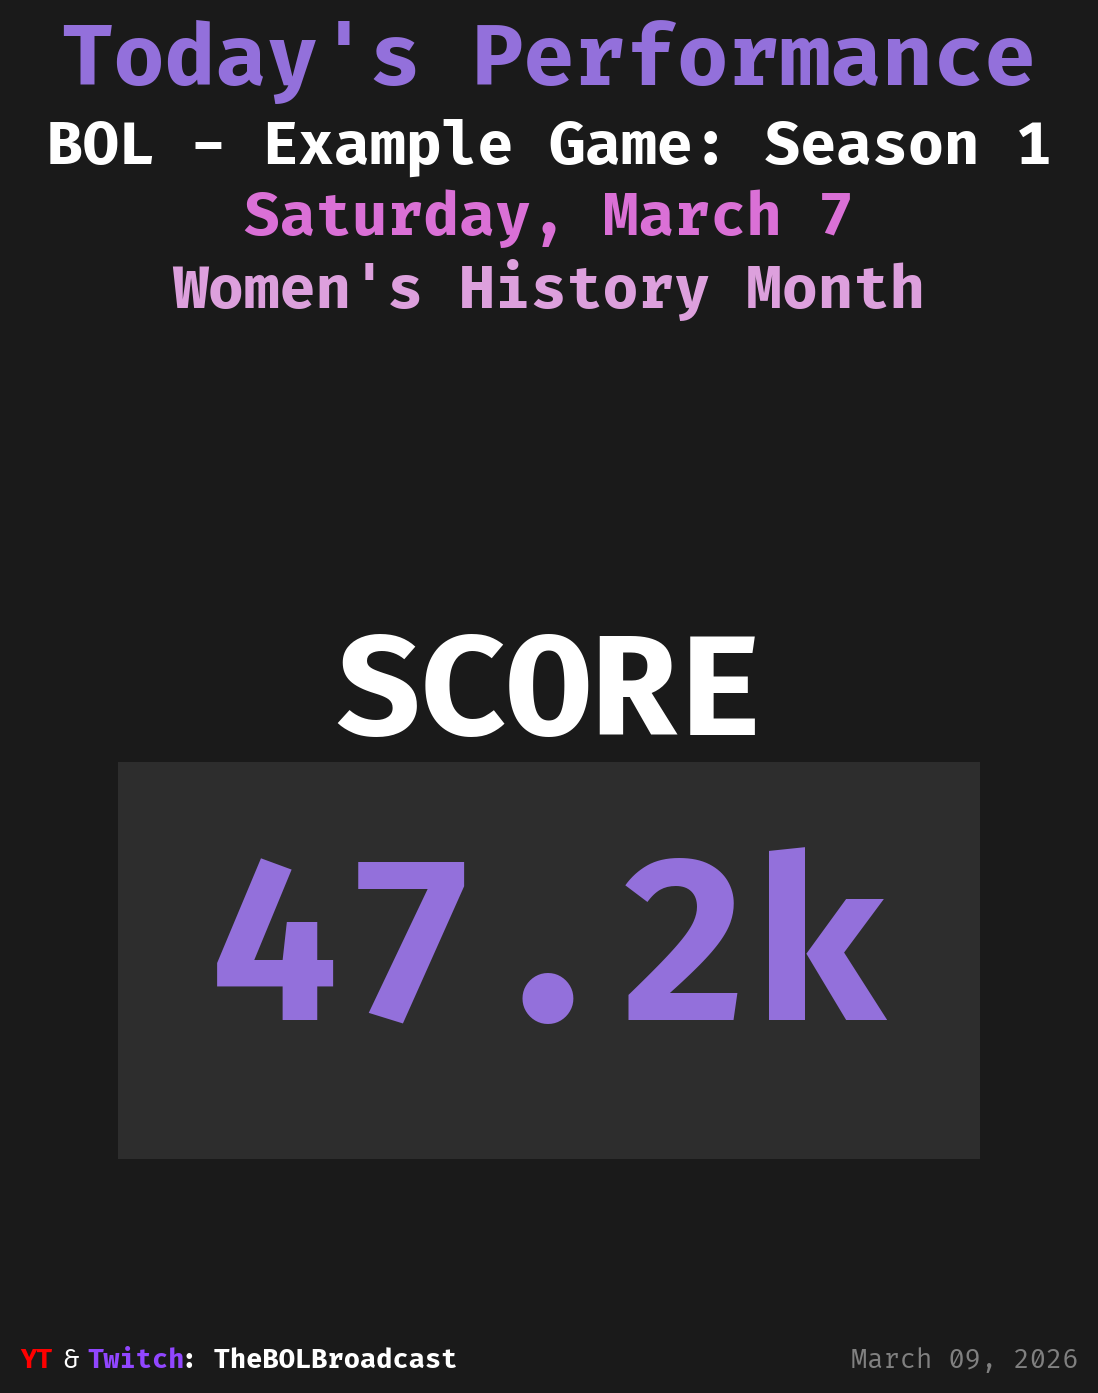
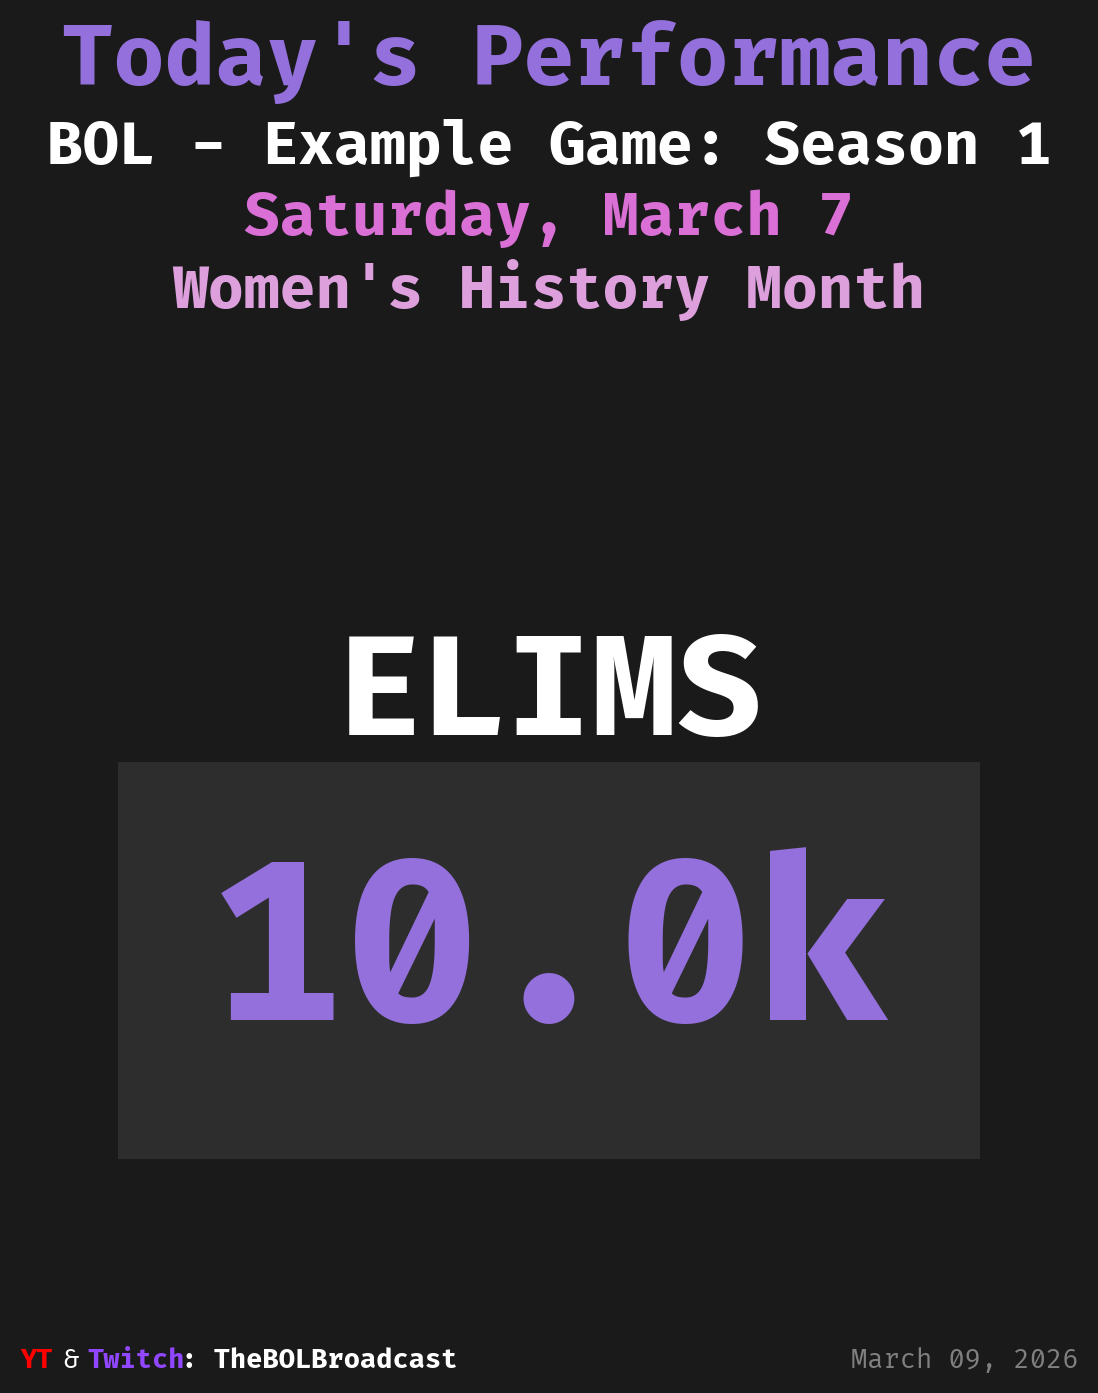
feat: Enhance Instagram and Twitter chart generation with improved upload structure and formatting

Changed region(s): [[0.1858, 0.6174, 0.4335, 0.7408], [0.3097, 0.4322, 0.7122, 0.5248], [0.5574, 0.6174, 0.6812, 0.7408]]

diff --git a/instagram_poster.py b/instagram_poster.py
@@ -644,31 +644,72 @@ def create_instagram_portrait_chart(stats, player_name, game_name, game_installm
         display_val = format_large_number(stats[0][1])
 
         label_len = len(stat_name)
-        if label_len <= 4:
-            kpi_label_fontsize = 130
-            kpi_label_offset = 0.85   # 0.0065 * 130
-        elif label_len <= 6:
-            kpi_label_fontsize = 100
-            kpi_label_offset = 0.65   # anchor (ratio = 0.0065/pt)
-        elif label_len <= 8:
-            kpi_label_fontsize = 85
-            kpi_label_offset = 0.55   # 0.0065 * 85
-        else:
-            kpi_label_fontsize = 70
-            kpi_label_offset = 0.46   # 0.0065 * 70
-
-        # Scale value fontsize to fill close to screen width for 1–5 char values
         val_len = len(display_val)
+
+        # Outer tier: val_len → value fontsize + value box height → drives label offset floor
+        # Inner tier: label_len → label fontsize (smaller font = floor at tier anchor)
+        # Confirmed anchor: val_len > 4, label_len <= 6 → offset 0.65
+        # Larger value font (smaller val_len) → box taller → label offset must rise
         if val_len <= 2:
             kpi_value_fontsize = 260
+            kpi_value_offset = 0.38
+            if label_len <= 4:
+                kpi_label_fontsize = 130
+                kpi_label_offset = 0.81   # larger label font, raise above tier anchor
+            elif label_len <= 6:
+                kpi_label_fontsize = 100
+                kpi_label_offset = 0.78   # tier anchor
+            elif label_len <= 8:
+                kpi_label_fontsize = 85
+                kpi_label_offset = 0.77   # floor at tier anchor
+            else:
+                kpi_label_fontsize = 70
+                kpi_label_offset = 0.77   # floor at tier anchor
         elif val_len <= 3:
             kpi_value_fontsize = 220
+            kpi_value_offset = 0.38
+            if label_len <= 4:
+                kpi_label_fontsize = 130
+                kpi_label_offset = 0.75   # larger label font, raise above tier anchor
+            elif label_len <= 6:
+                kpi_label_fontsize = 100
+                kpi_label_offset = 0.72  # tier anchor
+            elif label_len <= 8:
+                kpi_label_fontsize = 85
+                kpi_label_offset = 0.71   # floor at tier anchor
+            else:
+                kpi_label_fontsize = 70
+                kpi_label_offset = 0.71   # floor at tier anchor
         elif val_len <= 4:
             kpi_value_fontsize = 190
-        else:  # 5 chars e.g. "45.2k"
+            kpi_value_offset = 0.38
+            if label_len <= 4:
+                kpi_label_fontsize = 130
+                kpi_label_offset = 0.73   # larger label font, raise above tier anchor
+            elif label_len <= 6:
+                kpi_label_fontsize = 100
+                kpi_label_offset = 0.70   # tier anchor (needs tuning)
+            elif label_len <= 8:
+                kpi_label_fontsize = 85
+                kpi_label_offset = 0.69   # floor at tier anchor
+            else:
+                kpi_label_fontsize = 70
+                kpi_label_offset = 0.69   # floor at tier anchor
+        else:  # val_len > 4 (e.g. "45.2k")
             kpi_value_fontsize = 160
-
-        kpi_value_offset = 0.38
+            kpi_value_offset = 0.38
+            if label_len <= 4:
+                kpi_label_fontsize = 130
+                kpi_label_offset = 0.68   # larger label font, raise above tier anchor
+            elif label_len <= 6:
+                kpi_label_fontsize = 100
+                kpi_label_offset = 0.65   # CONFIRMED WORKING ANCHOR
+            elif label_len <= 8:
+                kpi_label_fontsize = 85
+                kpi_label_offset = 0.64   # floor at tier anchor
+            else:
+                kpi_label_fontsize = 70
+                kpi_label_offset = 0.64   # floor at tier anchor
 
         ax.text(0.5, kpi_label_offset, stat_name, ha='center', va='center',
                 fontsize=kpi_label_fontsize, fontweight='bold',
@@ -967,7 +1008,8 @@ def run_instagram_poster():
             }
 
             game_id = next((g['game_id'] for g in all_games
-                           if g['game_name'] == first_game['game']), None)
+                           if g['game_name'] == first_game['game']
+                           and g['game_installment'] == first_game['installment']), None)
 
             if game_id:
                 stats = get_stats_for_date(PLAYER_ID, game_id, today)
@@ -993,7 +1035,8 @@ def run_instagram_poster():
             }
 
             game_id = next((g['game_id'] for g in all_games
-                           if g['game_name'] == first_game['game']), None)
+                           if g['game_name'] == first_game['game']
+                           and g['game_installment'] == first_game['installment']), None)
 
             if game_id:
                 stats = get_stats_for_date(PLAYER_ID, game_id, yesterday)
@@ -1170,7 +1213,8 @@ def run_instagram_poster_for_queue():
             }
 
             game_id = next((g['game_id'] for g in all_games
-                           if g['game_name'] == first_game['game']), None)
+                           if g['game_name'] == first_game['game']
+                           and g['game_installment'] == first_game['installment']), None)
 
             if game_id:
                 stats = get_stats_for_date(PLAYER_ID, game_id, today)
@@ -1196,7 +1240,8 @@ def run_instagram_poster_for_queue():
             }
 
             game_id = next((g['game_id'] for g in all_games
-                           if g['game_name'] == first_game['game']), None)
+                           if g['game_name'] == first_game['game']
+                           and g['game_installment'] == first_game['installment']), None)
 
             if game_id:
                 stats = get_stats_for_date(PLAYER_ID, game_id, yesterday)

diff --git a/flask_app.py b/flask_app.py
@@ -536,40 +536,49 @@ def add_stats(user_email):
                             'label': stat_type,
                             'value': result[0] if result else 0
                         }
-                    
-                    image_buffer = generate_bar_chart(stat_data, player_name, game_name, game_installment)
+
+                    image_buffer_twitter = generate_bar_chart(stat_data, player_name, game_name, game_installment, size='twitter')
+                    image_buffer_instagram = generate_bar_chart(stat_data, player_name, game_name, game_installment, size='instagram')
                     chart_type = 'bar'
-                    
+
                 elif games_played > 1:
                     # Generate LINE CHART (multiple games)
                     stat_history = get_stat_history_from_db(cur, player_id, game_id, top_stats)
-                    image_buffer = generate_line_chart(stat_history, player_name, game_name, game_installment)
+                    image_buffer_twitter = generate_line_chart(stat_history, player_name, game_name, game_installment, size='twitter')
+                    image_buffer_instagram = generate_line_chart(stat_history, player_name, game_name, game_installment, size='instagram')
                     chart_type = 'line'
-                
-                # Upload to Google Cloud Storage
-                public_url = upload_chart_to_gcs(image_buffer, player_name, game_name, chart_type)
-                
-                if public_url:
-                    # Generate caption
+
+                # Upload to GCS — Twitter (16:9, auto-post)
+                twitter_public_url = upload_chart_to_gcs(image_buffer_twitter, player_name, game_name, chart_type, platform='twitter')
+
+                # Upload to GCS — Instagram (1080x1080) organized by week AND by game
+                instagram_url_week = upload_chart_to_gcs(image_buffer_instagram, player_name, game_name, chart_type, platform='instagram', storage_option='week')
+                instagram_url_game = upload_chart_to_gcs(image_buffer_instagram, player_name, game_name, chart_type, platform='instagram', storage_option='game')
+
+                if twitter_public_url:
+                    # Generate caption — pass platform and is_live as keyword args
                     caption = generate_post_caption(
-                        player_name, 
-                        game_name, 
-                        game_installment, 
+                        player_name,
+                        game_name,
+                        game_installment,
                         stat_data if games_played == 1 else stat_history,
                         games_played,
-                        is_live
+                        platform='twitter',
+                        is_live=is_live
                     )
-                    
-                    # Trigger IFTTT webhook
-                    social_platform = os.environ.get('SOCIAL_MEDIA_PLATFORM', 'twitter')  # 'twitter', 'instagram', or 'both'
-                    success = trigger_ifttt_post(public_url, caption, social_platform)
-                    
+
+                    # Post only Twitter URL to Twitter via IFTTT
+                    success = trigger_ifttt_post(twitter_public_url, caption, 'twitter')
+
                     if success:
-                        print(f"✅ Social media post triggered successfully!")
+                        print(f"✅ Twitter post triggered successfully!")
                     else:
-                        print(f"⚠ Social media post failed, but stats were saved")
+                        print(f"⚠ Twitter post failed, but stats were saved")
                 else:
-                    print(f"⚠ Failed to upload chart, but stats were saved")
+                    print(f"⚠ Failed to upload Twitter chart, but stats were saved")
+
+                if not instagram_url_week and not instagram_url_game:
+                    print(f"⚠ Failed to upload Instagram chart, but stats were saved")
                     
             except Exception as social_error:
                 # Don't fail the entire request if social media posting fails

diff --git a/utils/gcs_utils.py b/utils/gcs_utils.py
@@ -48,17 +48,21 @@ def get_gcs_client():
         return None
 
 
-def upload_chart_to_gcs(image_buffer, player_name, game_name, chart_type='bar', platform='twitter'):
+def upload_chart_to_gcs(image_buffer, player_name, game_name, chart_type='bar', platform='twitter', storage_option='game'):
     """
     Upload chart image to Google Cloud Storage with organized folder structure.
-    
+
     Args:
         image_buffer: BytesIO object containing PNG image
         player_name: str (sanitized for filename)
         game_name: str (sanitized for filename)
         chart_type: str ('bar' or 'line')
         platform: str ('twitter' or 'instagram')
-    
+        storage_option: str — instagram only: 'game' | 'week' | 'month'
+            'game'  → instagram/games/{game_name}/
+            'week'  → instagram/weekly/{year}/week_{week_num}/
+            'month' → instagram/monthly/{year}/{month}/
+
     Returns:
         str: Public URL of uploaded image, or None if failed
     """
@@ -85,17 +89,23 @@ def upload_chart_to_gcs(image_buffer, player_name, game_name, chart_type='bar', 
         safe_game = sanitize_filename(game_name)
         
         if platform == 'twitter':
-            # Twitter: Organized by date (auto-posted)
-            # Path: twitter/2025/01/player_game_bar_20250115_143022.png
+            # twitter/2025/01/player_game_bar_20250115_143022.png
             folder_path = f"twitter/{year}/{month}"
             filename = f"{safe_player}_{safe_game}_{chart_type}_{timestamp}.png"
-        
+
         elif platform == 'instagram':
-            # Instagram: Organized by game (manual compilation)
-            # Path: instagram/games/call_of_duty_warzone/player_20250115_143022.png
-            folder_path = f"instagram/games/{safe_game}"
-            filename = f"{safe_player}_{chart_type}_{timestamp}.png"
-        
+            week_of_year = now.strftime('%W')  # ISO week number (00–53)
+            if storage_option == 'week':
+                # instagram/weekly/2025/week_12/player_game_bar_20250115_143022.png
+                folder_path = f"instagram/weekly/{year}/week_{week_of_year}"
+            elif storage_option == 'month':
+                # instagram/monthly/2025/03/player_game_bar_20250115_143022.png
+                folder_path = f"instagram/monthly/{year}/{month}"
+            else:
+                # default: 'game' — instagram/games/call_of_duty_warzone/player_bar_20250115.png
+                folder_path = f"instagram/games/{safe_game}"
+            filename = f"{safe_player}_{safe_game}_{chart_type}_{timestamp}.png"
+
         else:
             # Fallback to generic path
             folder_path = f"charts/{platform}/{year}/{month}"

diff --git a/utils/chart_utils.py b/utils/chart_utils.py
@@ -263,33 +263,36 @@ def _generate_kpi_chart(stat, player_name, game_name, game_installment, size, th
     # stays safely above the box. Offsets derived from the largest-tier anchor.
     label_len = len(stat['label'])
     if size == 'instagram':
-        # Anchor: label_len<=6 → 72pt at 0.70 (ratio = 0.70/72 = 0.009722)
-        if label_len <= 4:
-            kpi_label_fontsize = 80
-            kpi_label_offset = 0.78   # 0.009722 * 80
-        elif label_len <= 6:
-            kpi_label_fontsize = 72
-            kpi_label_offset = 0.70   # anchor
-        elif label_len <= 8:
-            kpi_label_fontsize = 64
-            kpi_label_offset = 0.62   # 0.009722 * 64
-        else:
-            kpi_label_fontsize = 52
-            kpi_label_offset = 0.51   # 0.009722 * 52
-    else:
-        # Anchor: label_len<=6 → 80pt at 0.80 (ratio = 0.80/80 = 0.01)
+        # Anchor: label_len<=6 → 72pt at 0.70.
+        # Tiers with smaller font must NOT drop below the anchor offset — the
+        # value bbox top is fixed, so pulling the label down causes overlap.
         if label_len <= 4:
             kpi_label_fontsize = 90
-            kpi_label_offset = 0.90   # 0.01 * 90
+            kpi_label_offset = 0.72   # larger font, raise above anchor
         elif label_len <= 6:
             kpi_label_fontsize = 80
-            kpi_label_offset = 0.80   # anchor
+            kpi_label_offset = 0.70   # anchor (confirmed working)
         elif label_len <= 8:
             kpi_label_fontsize = 70
-            kpi_label_offset = 0.70   # 0.01 * 70
+            kpi_label_offset = 0.70   # same as anchor — smaller font still needs same clearance
         else:
             kpi_label_fontsize = 60
-            kpi_label_offset = 0.60   # 0.01 * 60
+            kpi_label_offset = 0.70   # same as anchor — smallest font, most whitespace above
+    else:
+        # Anchor: label_len<=6 → 80pt at 0.80.
+        # Same rule: floor offset at anchor to prevent value-box overlap.
+        if label_len <= 4:
+            kpi_label_fontsize = 90
+            kpi_label_offset = 0.82   # larger font, raise above anchor
+        elif label_len <= 6:
+            kpi_label_fontsize = 80
+            kpi_label_offset = 0.80   # anchor (confirmed working)
+        elif label_len <= 8:
+            kpi_label_fontsize = 70
+            kpi_label_offset = 0.80   # same as anchor — smaller font still needs same clearance
+        else:
+            kpi_label_fontsize = 60
+            kpi_label_offset = 0.80   # same as anchor — smallest font, most whitespace above
 
     ax.axis('off')
 

diff --git a/pages/2_Stats.py b/pages/2_Stats.py
@@ -401,11 +401,12 @@ if st.session_state.player_name and st.session_state.is_trusted_user:
                 
                 if valid:
                     # Payload is built here, reading from state
-                    payload = {"game_name": final_game_name, "game_series": final_game_series,
+                    payload = {"game_name": final_game_name, "game_installment": final_game_installment,
+                               "game_series": final_game_series,
                                "game_genre": final_game_genre, "game_subgenre": final_game_subgenre,
-                               "player_name": st.session_state.player_name, 
-                               "stats": stats_list, # stats_list now contains the rank data
-                               "is_live": st.session_state.is_live_streaming 
+                               "player_name": st.session_state.player_name,
+                               "stats": stats_list,
+                               "is_live": st.session_state.is_live_streaming
                                }
                     auth_headers = get_auth_headers()
                     if auth_headers:
